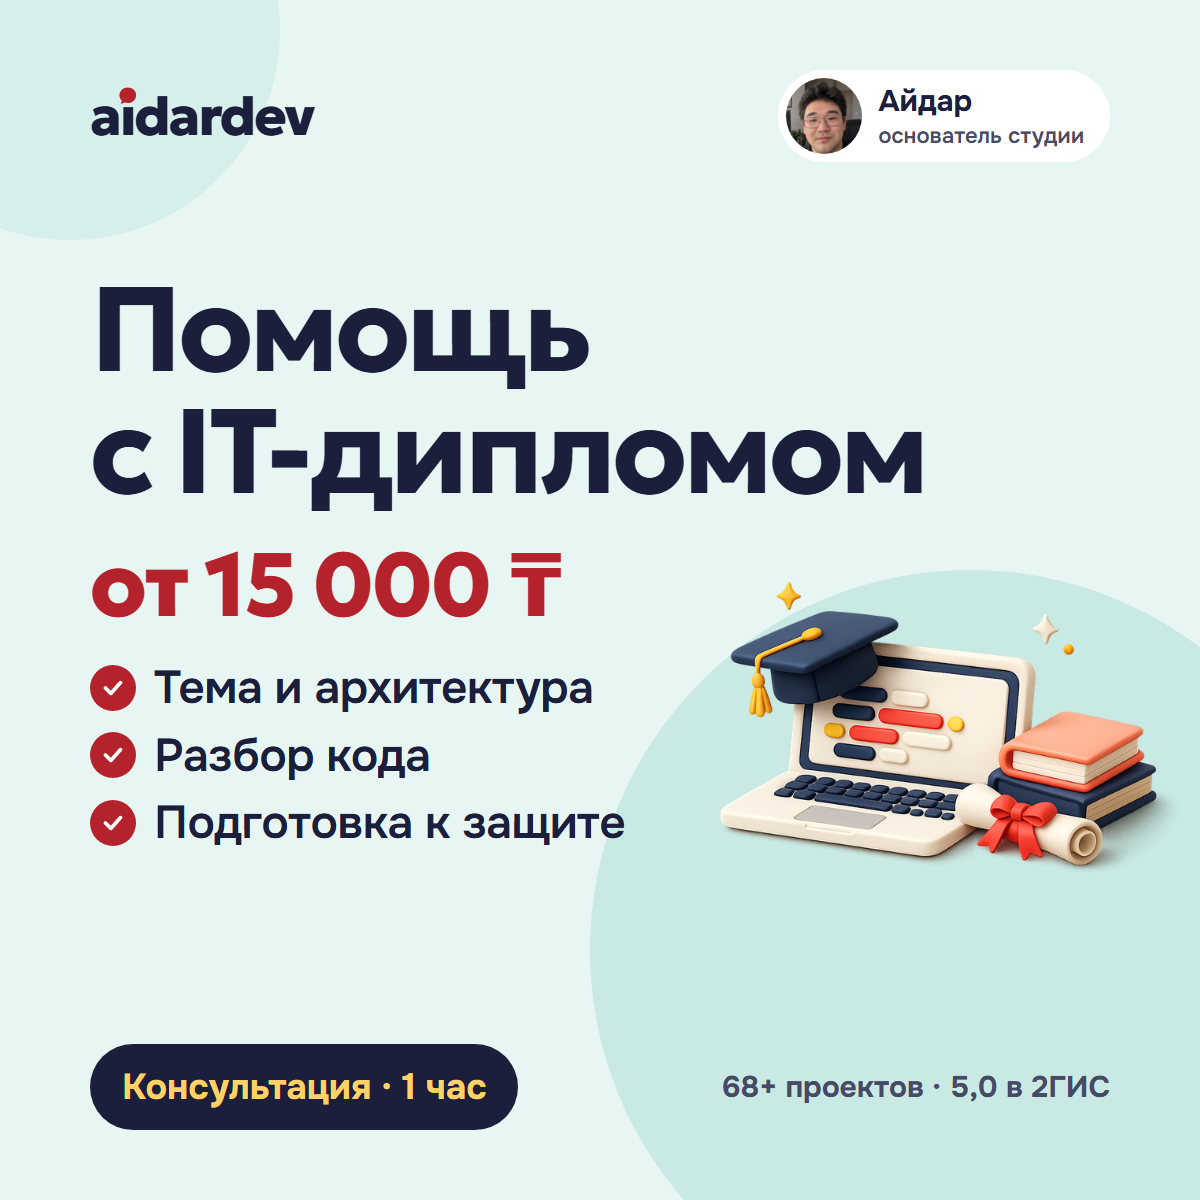
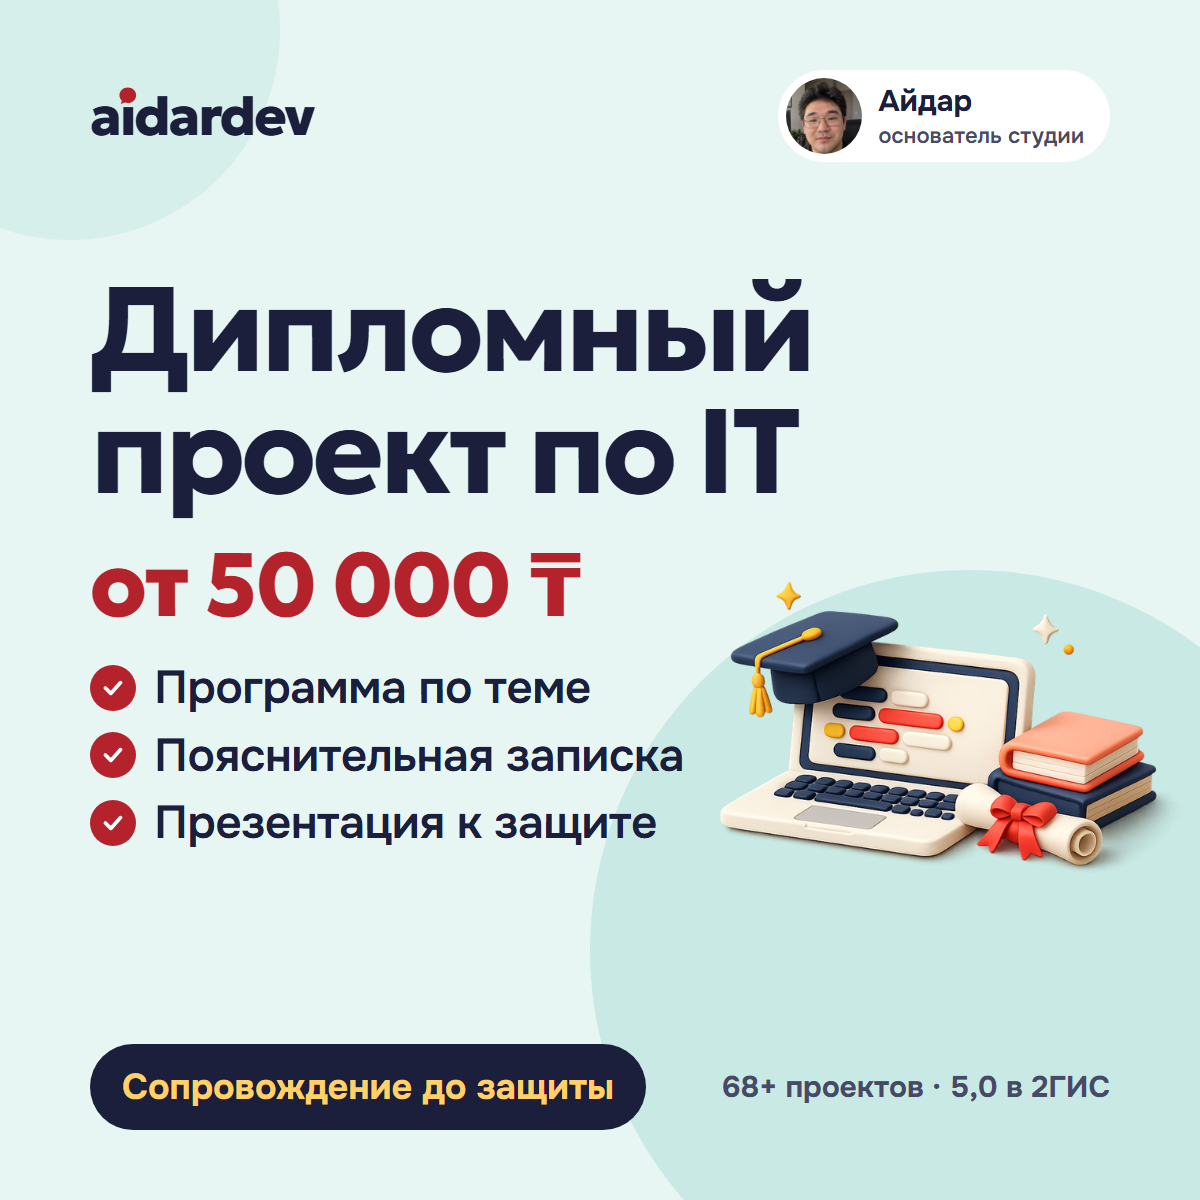
Turn the IT diploma listing into a turnkey diploma project

diff --git a/docs/marketplace-listings.md b/docs/marketplace-listings.md
@@ -30,7 +30,7 @@
 | 7 | MVP «Старт» | от 400 000 ₸ | кроссплатформенное приложение с одним главным сценарием, простой backend; срок 1 месяц | от 800 000 ₸ |
 | 8 | UI/UX-дизайн «Старт» | от 50 000 ₸ | дизайн лендинга до 6 блоков в Figma, версии для компьютера и телефона | от 150 000 ₸ |
 | 9 | Экспресс ИИ-аудит (пакет «Старт») | от 30 000 ₸ | созвон и разбор процессов, короткий список: что автоматизировать в первую очередь | от 150 000 ₸ |
-| 10 | Консультация по IT-диплому | от 15 000 ₸ за час | разбор темы или проблемы в коде и план, что делать дальше | консультации на сайте — от 15 000 ₸ в час; сопровождение — цена после разбора задачи |
+| 10 | Дипломный проект по IT: программная часть | от 50 000 ₸ | программа, сайт, бот или приложение по теме студента, исходный код и инструкция запуска, разбор кода перед защитой | на сайте нет; под ключ (программа, записка, презентация) — от 90 000 ₸, по рынку OLX |
 
 **Что ещё проверить вместе с объёмом**
 - **Сроки «Старт».** Лендинг «Старт» — 5–7 дней, MVP «Старт» — 1 месяц: они стоят в заголовках и в блоке «Старт». У остальных пакетов срок в тексте только у полного пакета.
@@ -63,11 +63,11 @@
 | 7 | Мобильное приложение MVP | от 400 000 / от 800 000 ₸ | Создание и продвижение сайтов / приложений: Астана, Алматы | Другие ИТ услуги: Астана, Алматы |
 | 8 | UI/UX-дизайн | от 50 000 / от 150 000 ₸ | Создание и продвижение сайтов / приложений: Астана, Алматы | Создание сайтов: Астана, Алматы |
 | 9 | ИИ-аудит | от 30 000 / от 150 000 ₸ | IT / интернет / телеком: Астана, Алматы | Другие ИТ услуги: Астана, Алматы |
-| 10 | IT-диплом | от 15 000 ₸ за час / сопровождение — после разбора | IT / интернет / телеком: Астана, Алматы | Другие ИТ услуги: Астана, Алматы |
+| 10 | IT-диплом под ключ | от 50 000 / от 90 000 ₸ | Написание / подготовка курсовых и дипломных работ: Астана, Алматы | Прочие образовательные услуги: Астана, Алматы |
 
 Полные пути рубрик:
-- **OLX:** «Услуги → Деловые услуги → Создание и продвижение сайтов / приложений» и «Услуги → Деловые услуги → IT / интернет / телеком».
-- **Kaspi:** «Услуги → Интернет и компьютеры → Создание сайтов» и «Услуги → Интернет и компьютеры → Другие ИТ услуги».
+- **OLX:** «Услуги → Деловые услуги → Создание и продвижение сайтов / приложений» и «Услуги → Деловые услуги → IT / интернет / телеком»; диплом — «Услуги → Обучение / курсы / репетиторство → Написание / подготовка курсовых и дипломных работ».
+- **Kaspi:** «Услуги → Интернет и компьютеры → Создание сайтов» и «Услуги → Интернет и компьютеры → Другие ИТ услуги»; диплом — «Услуги → Образование, курсы → Прочие образовательные услуги».
 
 Почему рубрики разные:
 - **Боты и ИИ-аудит на OLX** идут в «IT / интернет / телеком». Там мало конкурентов: 28 объявлений в Астане и 31 в Алматы. В рубрике сайтов их 106 и 185.
@@ -996,64 +996,71 @@ UI/UX-дизайн сайта и мобильного приложения
 
 |  | OLX.kz | Kaspi |
 |---|---|---|
-| Рубрика | Деловые услуги → IT / интернет / телеком | Интернет и компьютеры → Другие ИТ услуги |
+| Рубрика | Обучение / курсы / репетиторство → Написание / подготовка курсовых и дипломных работ | Образование, курсы → Прочие образовательные услуги |
 | Города | Астана, Алматы | Астана, Алматы |
-| Заголовок | Помощь с IT-дипломом: код, архитектура, защита — от 15 000 ₸ (60) | Помощь с IT-дипломом: код, архитектура, подготовка к защите (59) |
-| Цена | поля нет, цена в заголовке и в тексте | от 15 000 ₸ — консультация, 1 час |
+| Заголовок | Дипломный проект по IT под ключ: код, записка, защита — от 50 000 ₸ (67) | Дипломный проект по IT под ключ: программа, записка, презентация (64) |
+| Цена | поля нет, цена в заголовке и в тексте | от 50 000 ₸ |
 
-Формат — помощь и наставничество: проект делает студент, мы помогаем разобраться и довести его до защиты. Консультация — по цене консультаций на сайте (от 15 000 ₸ в час); цену сопровождения называем после разбора задачи.
+Формат — дипломный проект под ключ, делает студия (решение владельца 07.10). Рубрики — те, где такие объявления подают другие исполнители. На сайте такой услуги нет, поэтому цены взяты по рынку OLX на 07.10: дипломы по IT — от 60 000 до 90 000 ₸, обычные дипломы — от 50 000 ₸.
 
 **Описание** (одно для обеих площадок, отличается только последняя строка)
 ```
-Помощь с дипломным IT-проектом
+Дипломный проект по IT под ключ
 
-Помогаем студентам IT-специальностей довести дипломный проект до защиты: разбираем тему, проектируем архитектуру, помогаем с кодом и готовим к вопросам комиссии. Проект делаете вы, а мы помогаем разобраться в каждой строке.
+Делаем дипломные проекты для IT-специальностей: программу по вашей теме, пояснительную записку и презентацию. Ведём до защиты: вносим правки по замечаниям руководителя и разбираем проект вместе с вами, чтобы вы уверенно отвечали на вопросы комиссии.
 
-С чем помогаем
-— выбор темы и стека: сайт, мобильное приложение, бот, ИИ
-— архитектура и база данных
-— разбор и исправление ошибок в коде
-— ревью кода и советы, как сделать лучше
-— подготовка к защите: как объяснить, что и почему сделано
+Что делаем
+— программа по теме: сайт, веб-сервис, чат-бот, мобильное приложение, ИИ
+— база данных и архитектура
+— пояснительная записка по методичке вашего вуза или колледжа
+— презентация и текст доклада
+— исходный код и инструкция запуска
+— правки по замечаниям руководителя до защиты
 
-Как проходит
-1. Созвон: тема и требования кафедры
-2. План проекта по этапам
-3. Встречи по ходу работы: код, ошибки, вопросы
-4. Ревью и доработка
-5. Репетиция защиты
+Как работаем
+1. Вы присылаете тему, методичку и срок защиты
+2. Оцениваем и называем цену
+3. Делаем программу и показываем по этапам
+4. Пишем записку и презентацию
+5. Вносим правки по замечаниям руководителя
+6. Разбираем проект перед защитой
 
 Цена
-Консультация, 1 час — от 15 000 ₸
-— разбор темы или конкретной проблемы в коде
-— план, что делать дальше
+Программная часть — от 50 000 ₸
+— программа, сайт, бот или приложение по вашей теме
+— исходный код и инструкция запуска
+— разбор кода перед защитой
 
-Сопровождение до защиты — цену называем после разбора задачи.
+Под ключ — от 90 000 ₸
+— программа, пояснительная записка и презентация
+— правки по замечаниям руководителя
+
+Точную цену и срок назовём по теме и методичке. Оценка бесплатно.
 
 Почему aidardev
 — 68+ проектов, 8+ лет в разработке
 — 5,0 в 2ГИС по 11 отзывам
-— консультации ведёт основатель студии Айдар
+— проект ведёт основатель студии Айдар
 — отвечаем за 15 минут в рабочее время
 
-Напишите в чат OLX тему диплома, специальность и срок защиты. Бесплатно оценим задачу и подскажем, с чего начать.
+Напишите в чат OLX тему диплома, специальность и срок защиты — оценим бесплатно.
 ```
-Последняя строка для Kaspi: «Напишите в чат Kaspi или нажмите «Позвонить»: тема диплома, специальность и срок защиты. Бесплатно оценим задачу и подскажем, с чего начать.»
+Последняя строка для Kaspi: «Напишите в чат Kaspi или нажмите «Позвонить»: тема диплома, специальность и срок защиты — оценим бесплатно.»
 
 **Фото** (7 слотов)
 1. Обложка (ниже).
-2. Слайд «Цены»: консультация 1 час от 15 000 ₸; сопровождение до защиты — по договорённости.
-3. Слайд «С чем помогаем».
-4. Слайд «Как проходит».
+2. Слайд «Цены»: программная часть от 50 000 ₸; под ключ от 90 000 ₸.
+3. Слайд «Что входит».
+4. Слайд «Как работаем».
 5. Слайд с сайтами студии (works-2).
 6. Слайд отзывов.
 7. Слайд об основателе.
 
 **Обложка**
-- Заголовок: **Помощь с IT-дипломом**
-- Пункты: Тема и архитектура · Разбор кода · Подготовка к защите
-- Цена: **от 15 000 ₸**
-- Плашка: Консультация · 1 час
+- Заголовок: **Дипломный проект по IT**
+- Пункты: Программа по теме · Пояснительная записка · Презентация к защите
+- Цена: **от 50 000 ₸**
+- Плашка: Сопровождение до защиты
 
 ---
 
@@ -1073,7 +1080,7 @@ UI/UX-дизайн сайта и мобильного приложения
 7. **Мобильное приложение MVP** / iOS и Android · Backend API · Один главный сценарий / от 400 000 ₸ / Пакет «Старт» · договор
 8. **UI/UX-дизайн в Figma** / Лендинг до 6 блоков · Адаптив под телефон · Исходники Figma / от 50 000 ₸ / Пакет «Старт» · договор
 9. **ИИ-аудит бизнеса** / Созвон и разбор процессов · Что автоматизировать · С чего начать / от 30 000 ₸ / Пакет «Старт» · договор
-10. **Помощь с IT-дипломом** / Тема и архитектура · Разбор кода · Подготовка к защите / от 15 000 ₸ / Консультация · 1 час
+10. **Дипломный проект по IT** / Программа по теме · Пояснительная записка · Презентация к защите / от 50 000 ₸ / Сопровождение до защиты
 
 Общая плашка доверия, если нужна вторая строка: «68+ проектов · 5,0 в 2ГИС». Только текстом, без логотипа 2ГИС.
 
